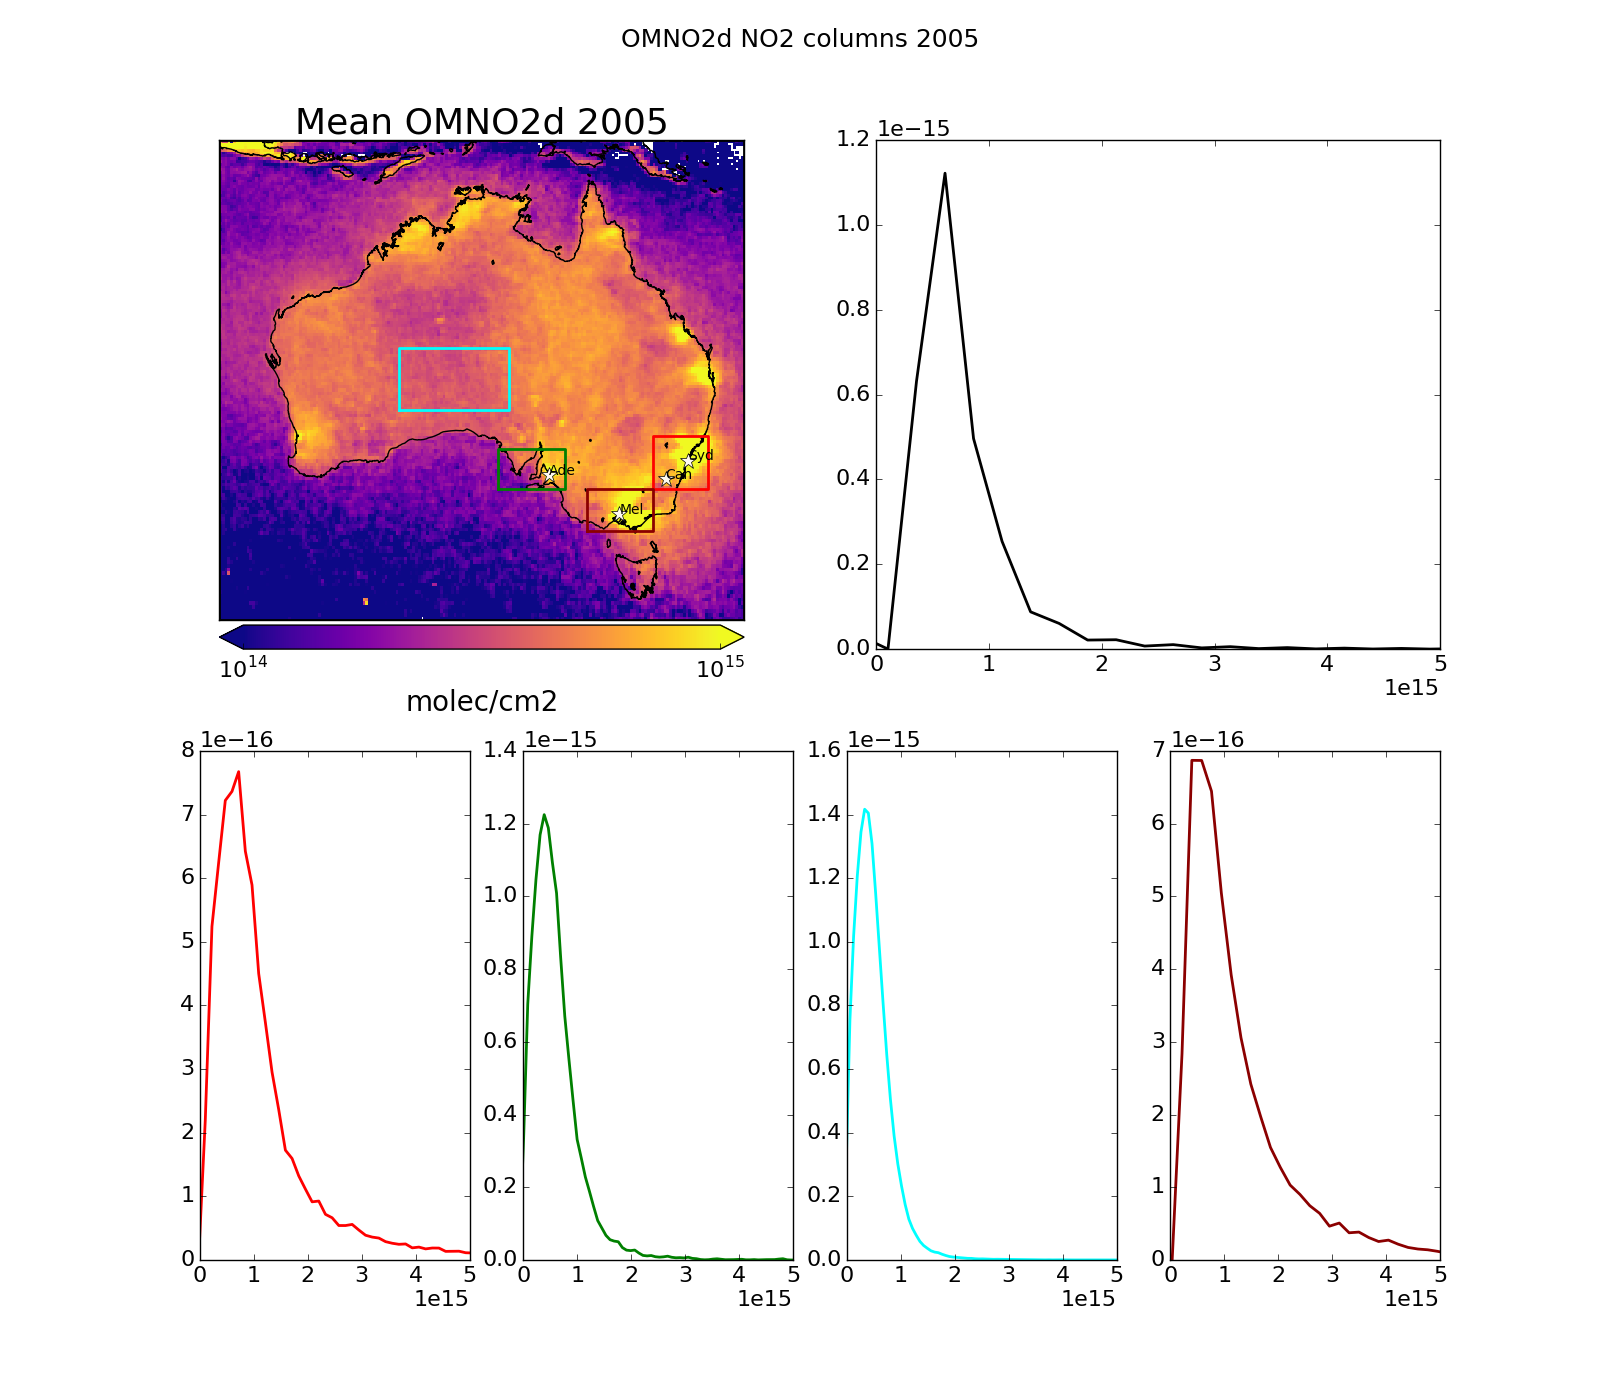
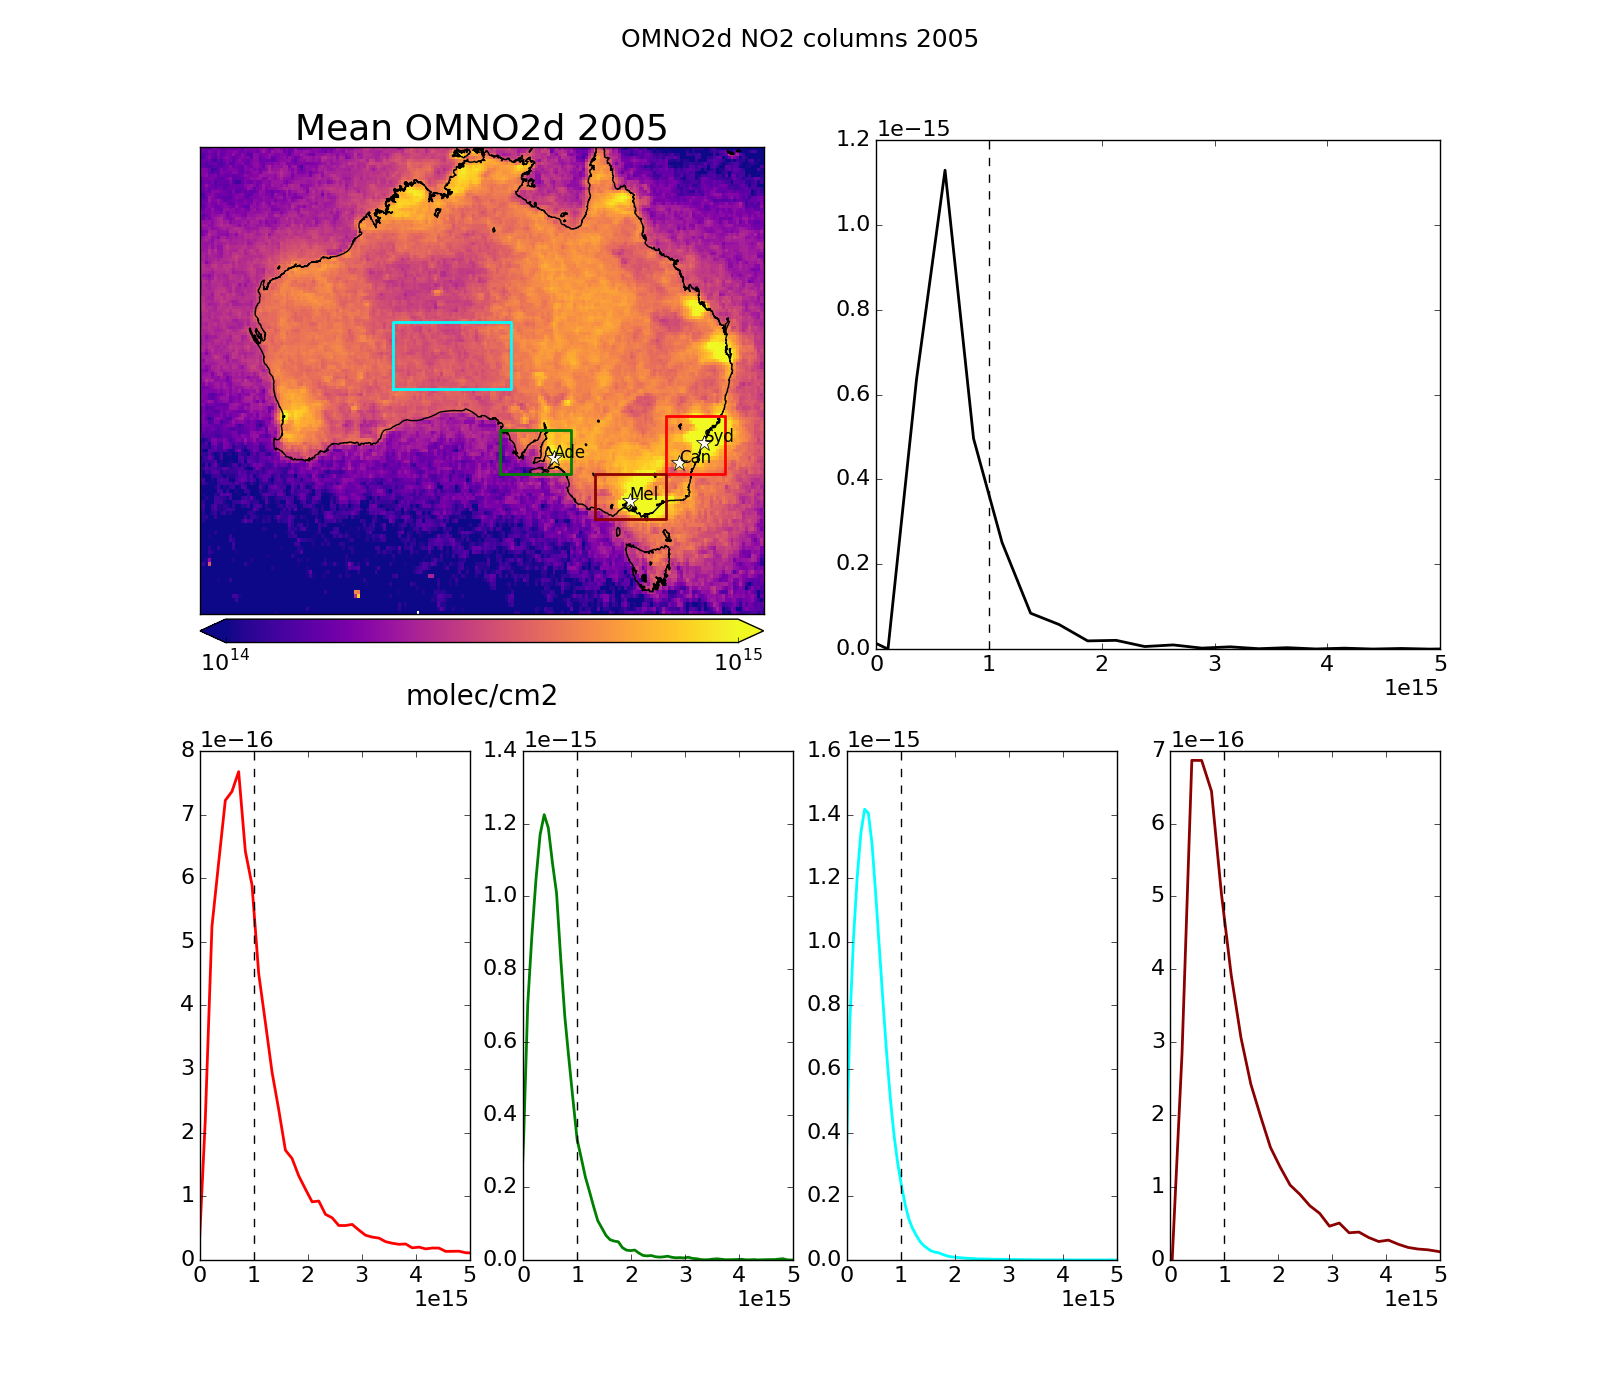
Updated OMNO2 plots and tests

Changed region(s): [[0.125, 0.0614, 0.5, 0.5221]]

diff --git a/tests.py b/tests.py
@@ -78,33 +78,40 @@ def check_array(array, nonzero=False):
     print ('count :%f'%np.sum(np.isfinite(arrayt)))
     print ('shape :'+str(np.shape(arrayt)))
 
-def no2_plots(data, lats, lons, vmin, vmax, subzones, colors):
+def no2_map(data, lats, lons, vmin, vmax, subzones, colors):
     '''
         Plot australia, with subzones and stuff added
     '''
 
     cmapname='plasma'
-    
+
     bmap,cs,cb = pp.createmap(data, lats, lons, region=subzones[0],
                               vmin=vmin, vmax=vmax, clabel='molec/cm2',
                               cmapname=cmapname)
     # Add cities to map
     for city,latlon in cities.items():
         pp.add_point(bmap,latlon[0],latlon[1],markersize=12,
-                     color='floralwhite', label=city, fontsize=10)
+                     color='floralwhite', label=city, fontsize=12,
+                     xlabeloffset=0,ylabeloffset=3000)
 
-    # Add squares to first map:
+    # Add squares to map:
     for i,subzone in enumerate(subzones[1:]):
         pp.add_rectangle(bmap,subzone,color=colors[i+1],linewidth=2)
-    
-def no2_timeseries(no2,dates,lats,lons,subzones,colors,ylims=[2e14,4e15]):
+
+    return bmap,cs,cb
+
+def no2_timeseries(no2_orig,dates,lats,lons,subzones,colors,ylims=[2e14,4e15],
+                   print_values=False):
     '''
         time series for each subzone in no2_tests
     '''
-    lw=[4,2,2,2,2]
+    lw=[3,1,1,1,1]
     doys=[d.timetuple().tm_yday for d in dates]
+
+    # loop over subzones
     for i,subzone in enumerate(subzones):
         # Subset our data to subzone
+        no2=np.copy(no2_orig)
         lati,loni=util.lat_lon_range(lats,lons,subzone)
         no2 = no2[:,lati,:]
         no2 = no2[:,:,loni]
@@ -125,14 +132,14 @@ def no2_timeseries(no2,dates,lats,lons,subzones,colors,ylims=[2e14,4e15]):
         lower = np.nanpercentile(no2,25,axis=(1,2))
         mean = np.nanmean(no2,axis=(1,2))
         totmean = np.nanmean(no2)
-        
+
         plt.plot(doys, mean, color=colors[i],linewidth=lw[i])
         # Add IQR shading for first plot
         if i==0:
             plt.fill_between(doys, lower, upper, color=colors[i],alpha=0.2)
 
         # show yearly mean
-        plt.plot([370,395],[totmean,totmean], color=colors[i],linewidth=lw[i])
+        plt.plot([370,395],[totmean,totmean], color=colors[i],linewidth=lw[i]+1)
 
         # change to log y scale?
         plt.ylim(ylims)
@@ -142,6 +149,17 @@ def no2_timeseries(no2,dates,lats,lons,subzones,colors,ylims=[2e14,4e15]):
         ytickstr=['%.0e'%tick for tick in yticks]
         plt.yticks(yticks,ytickstr)
         plt.xlabel('Day of year')
+
+        # Print some stats if desired
+        if print_values:
+            with open("no2_output.txt",'a') as outf: # append to file
+                outf.write("Stats for %d, %s, %s"%(i, str(subzone), colors[i]))
+                outf.write("  yearly mean:  %.3e"%totmean)
+                outf.write("          std:  %.3e"%np.nanstd(no2))
+                outf.write("      entries:  %d"%np.sum(~np.isnan(no2)))
+                outf.write("  gridsquares:  %d"%np.prod(np.shape(no2)))
+            print("Wrote stats to no2_output.txt")
+
 
 #############################################################################
 ######################       TESTS                  #########################
@@ -153,7 +171,7 @@ def omno2d_filter_determination(year=datetime(2005,1,1),
     '''
         examine year of omno2d and look at densities and threshhold
     '''
-    
+
     # First read and whole year of NO2
     dat, attrs = fio.read_omno2d(datetime(year.year,1,1), util.last_day(datetime(year.year,12,1)))
     # Tropospheric cloud screened (<30%) no2 columns (molec/cm2)
@@ -161,7 +179,7 @@ def omno2d_filter_determination(year=datetime(2005,1,1),
     lats=dat['lats']
     lons=dat['lons']
     dates=dat['dates']
-    
+
     # Want to look at timeseires and densities in these subregions:
     subzones=[region, # All of Australia
               [-36,148,-32,153], # Canberra, Newcastle, and Sydney
@@ -170,9 +188,9 @@ def omno2d_filter_determination(year=datetime(2005,1,1),
               [-39,142,-36,148], # Melbourne
               ]
     colors=['k','red','green','cyan','darkred']
-    
+
     # Make two plots using following two subfunctions
-    def no2_threshcheck():
+    def no2_densities():
         '''
             Look at densities of no2 pixels from omno2d
         '''
@@ -184,12 +202,12 @@ def omno2d_filter_determination(year=datetime(2005,1,1),
 
         # plot map with regions:
         plt.figure(figsize=[16,14])
-        
+
         title = 'Mean OMNO2d %d'%year.year
         vmin = 1e14
         vmax = 1e15
         plt.subplot(2,2,1)
-        bmap,cs,cb = no2_plots(no2_mean,lats,lons,vmin,vmax,subzones,colors)
+        bmap,cs,cb = no2_map(no2_mean,lats,lons,vmin,vmax,subzones,colors)
         plt.title(title)
 
         # One density plot for each region in subzones
@@ -219,7 +237,7 @@ def omno2d_filter_determination(year=datetime(2005,1,1),
                 plt.subplot(2,4,i+4)
                 pp.density(no2,bw=bw, color=colors[i], linewidth=2) # should work with 3d
             plt.xlim([0,5e15])
-            plt.plot([thresh,thresh],[0,1])
+            plt.plot([thresh,thresh],[0,1], '--k')
 
         plt.suptitle("OMNO2d NO2 columns %d"%year.year)
         plt.savefig(plotname)
@@ -236,9 +254,9 @@ def omno2d_filter_determination(year=datetime(2005,1,1),
 
         # Tropospheric cloud screened (<30%) no2 columns (molec/cm2)
         no2=np.copy(no2_orig)
-        
+        print(no2.shape)
         no2_mean, no2_std = np.nanmean(no2,axis=0), np.nanstd(no2,axis=0)
-        
+
         # plot stuff:
         plt.figure(figsize=[16,16])
         # MEAN | STDev
@@ -251,7 +269,7 @@ def omno2d_filter_determination(year=datetime(2005,1,1),
         for i,arr in enumerate([no2_mean,no2_std]):
             axes.append(plt.subplot(2,2,i+1))
             vmin,vmax=vmins[i],vmaxes[i]
-            bmap,cs,cb = no2_plots(arr, lats, lons,vmin,vmax,subzones,colors)
+            bmap,cs,cb = no2_map(arr, lats, lons,vmin,vmax,subzones,colors)
             plt.title(titles[i])
 
             bmaps.append(bmap) # save the bmap for later
@@ -260,45 +278,49 @@ def omno2d_filter_determination(year=datetime(2005,1,1),
         axes.append(plt.subplot(2,1,2))
 
         # For each subset here, plot the timeseries
-        no2_timeseries(no2,dates,lats,lons,subzones,colors)
-        
+        no2_timeseries(no2_orig,dates,lats,lons,subzones,colors)
+
         plt.title('Mean time series (ocean masked) over %d'%year.year)
 
         plt.suptitle("OMNO2d NO2 columns")
         plt.savefig(plotname)
         print("saved ",plotname)
         plt.close()
-        
+
     def CheckThresh():
         ''' Look at affect of applying threshhold '''
+        pname='Figs/OMNO2_threshaffect_%d.png'%year.year
         fig, axes = plt.subplots(2,2,figsize=[16,16])
         no2=np.copy(no2_orig)
         no2_f=np.copy(no2)
         no2_f[no2_f>thresh] = np.NaN # filtered
-        
-        # Plot map and regions with and without values above threshhold filtered out
-        # Also time series with and without filter
-        
-        no2_mean = np.nanmean(no2,axis=0)
-        no2_f_mean = np.nanmean(no2_f, axis=0)
-        
+
         # plot stuff:
-        
-        # MEAN | STDev
-        titles = ['Mean %d'%year.year, 'filtered over %.1e threshhold'%thresh]
-        vmins  = [1e14, 1e14]
-        vmaxes = [5e15, 1e15]
-        for i,arr in enumerate([no2_mean,no2_f_mean]):
+        titles = ['Mean %d'%year.year, 'With %.1e threshhold'%thresh]
+        vmin = 1e14
+        vmax = 2e15
+        means=[]
+        for i,arr in enumerate([no2,no2_f]):
+            # Plot map and regions with and without values above threshhold filtered out
+            # Also time series with and without filter
+
+            means.append(np.nanmean(arr,axis=0))
             plt.sca(axes[0,i])
-            no2_plots(arr,lats,lons,vmins[i],vmaxes[i],subzones,colors)
+            no2_map(means[i],lats,lons,vmin,vmax,subzones,colors)
             plt.title(titles[i])
-            
+
             plt.sca(axes[1,i])
-            no2_timeseries(arr,dates,lats,lons,subzones,colors)
-            
+            no2_timeseries(arr,dates,lats,lons,subzones,colors,print_values=True)
+
+        plt.savefig(pname)
+        print('saved ',pname)
+        plt.close()
+
+
     # Now run both those functions
-    no2_threshcheck()
-    typical_no2()
+    #no2_densities()
+    #typical_no2()
+    CheckThresh()
 
 def typical_aaod_month(month=datetime(2005,11,1)):
     ''' '''

diff --git a/utilities/plotting.py b/utilities/plotting.py
@@ -38,10 +38,10 @@ import utilities.fio as fio
 ### GLOBALS ###
 ###############
 
-__VERBOSE__=True
+__VERBOSE__=False
 
 # S W N E
-__AUSREGION__=[-45, 108.75, -7, 156.25] # picked from lons_e and lats_e in GMAO.py
+__AUSREGION__=[-45, 108.75, -11, 156.25] # picked from lons_e and lats_e in GMAO.py
 __GLOBALREGION__=[-69, -178.75, 69, 178.75]
 
 ###############
